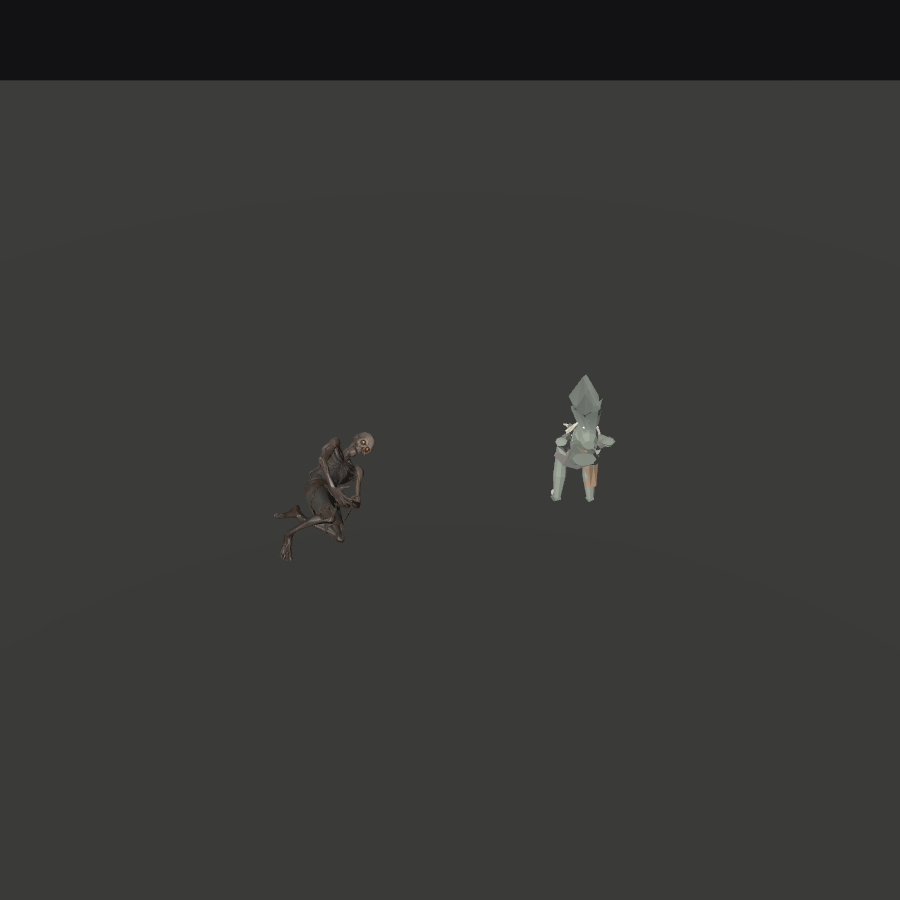
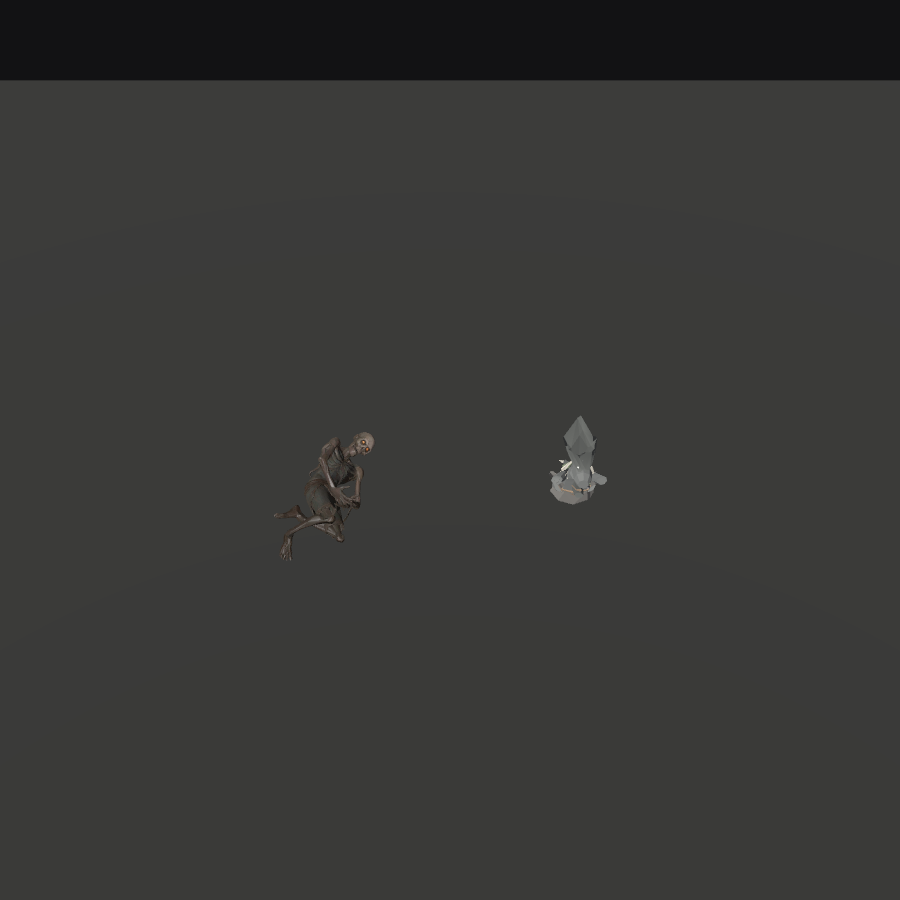
Zombie final pass: hips drop mode for staged bake, grave grey, rags
Add an opt-in hips_first_frame mode to tools/bake_anims.gd that pins
hips X and Z to the clip's first frame and leaves hips Y free. The default
path is unchanged (verified: a live ghoul bake matches the unedited tool
byte for byte). Death now drops the hips through the ground. Zombie:
subtle spine ridge instead of a hump, grave grey skin, hanging rag strips.
Re-baked in hips mode.

Changed region(s): [[0.5911, 0.4044, 0.6844, 0.56]]

diff --git a/tools/art/enemy_rig.py b/tools/art/enemy_rig.py
@@ -301,8 +301,12 @@ def write_clip(arm, name, keys, loop, signs, live=False):
     arm.animation_data_create()
     arm.animation_data.action = act
     state = {b: (0.0, 0.0, 0.0) for b in DEFORM}
+    hips_loc = (0.0, 0.0, 0.0)   # bone-local translation of Hips (Y up, Z forward); used by death to drop
     for frame, upd in keys:
         for bname, vals in upd.items():
+            if bname == "Hips_loc":
+                hips_loc = vals
+                continue
             rx, ry, rz = vals
             state[bname] = (rx * signs.get(bname, 1.0), ry, rz)
         for bname in DEFORM:
@@ -310,6 +314,10 @@ def write_clip(arm, name, keys, loop, signs, live=False):
             pb.rotation_mode = "XYZ"
             pb.rotation_euler = state[bname]
             pb.keyframe_insert("rotation_euler", frame=frame)
+        if "Hips" in DEFORM:
+            hp = arm.pose.bones[live_name("Hips") if live else "Hips"]
+            hp.location = hips_loc
+            hp.keyframe_insert("location", frame=frame)
     act["kn_loop"] = bool(loop)
     arm.animation_data.action = None
     return act
@@ -380,13 +388,13 @@ def make_clips(arm, style, live=False):
     # the body lands on its back instead of folding over.
     clips.append(("death", [
         (1, {}),
-        (21, {"Chest": (-0.15, 0, 0), "Head": (-0.10, 0, 0), "Hips": (-0.08, 0, 0),
+        (21, {"Hips_loc": (0.0, -0.08, -0.02), "Chest": (-0.15, 0, 0), "Head": (-0.10, 0, 0), "Hips": (-0.08, 0, 0),
               "LeftLowerLeg": (-0.35, 0, 0), "RightLowerLeg": (-0.35, 0, 0),
               "LeftUpperArm": (-0.40, 0, 0.20), "RightUpperArm": (-0.40, 0, -0.20)}),
-        (48, {"Chest": (-0.45, 0, 0), "Head": (-0.20, 0, 0), "Hips": (-0.25, 0, 0), "Spine": (-0.15, 0, 0),
+        (48, {"Hips_loc": (0.0, -0.30, -0.08), "Chest": (-0.45, 0, 0), "Head": (-0.20, 0, 0), "Hips": (-0.25, 0, 0), "Spine": (-0.15, 0, 0),
               "LeftLowerLeg": (-0.70, 0, 0), "RightLowerLeg": (-0.70, 0, 0),
               "LeftUpperArm": (-0.90, 0, 0.45), "RightUpperArm": (-0.90, 0, -0.45)}),
-        (85, {"Chest": (-0.55, 0, 0), "Head": (-0.25, 0, 0), "Hips": (-0.35, 0, 0), "Spine": (-0.20, 0, 0),
+        (85, {"Hips_loc": (0.0, -0.62, -0.18), "Chest": (-0.55, 0, 0), "Head": (-0.25, 0, 0), "Hips": (-0.35, 0, 0), "Spine": (-0.20, 0, 0),
                "LeftLowerLeg": (-0.85, 0, 0), "RightLowerLeg": (-0.85, 0, 0),
                "LeftUpperArm": (-1.10, 0, 0.55), "RightUpperArm": (-1.10, 0, -0.55)}),
     ], False))

diff --git a/tools/art/export_enemy.py b/tools/art/export_enemy.py
@@ -42,8 +42,8 @@ PALETTE = {
     "rust": (0.42, 0.21, 0.11),
     "eye_milk": (0.70, 0.70, 0.64),
     "void": (0.04, 0.04, 0.05),
-    "ash": (0.22, 0.25, 0.20),        # grey-green ash skin, darker than the flesh tone
-    "ash_dark": (0.15, 0.17, 0.14),
+    "ash": (0.16, 0.165, 0.155),      # grave grey, only a hint of green
+    "ash_dark": (0.105, 0.11, 0.10),
     "cloth": (0.20, 0.19, 0.17),
     "bone_old": (0.46, 0.43, 0.36),
 }
@@ -137,8 +137,8 @@ def build_zombie(b, J):
     b.tube("Z_Torso", [J["hips"], J["spine"], J["chest"], J["neck"]], [0.15, 0.14, 0.15, 0.09],
            [0.095, 0.085, 0.095, 0.065], mat="ash", sides=8, jitter=0.08, seed=3)
     # back hump (kyphosis): faceted ridge, not a sphere
-    b.tube("Z_Hump", [Vector((0, 0.09, 1.12)), Vector((0, 0.13, 1.27)), Vector((0, 0.11, 1.40))],
-           [0.11, 0.14, 0.09], [0.07, 0.09, 0.06], mat="ash_dark", sides=8, jitter=0.1, seed=7)
+    b.tube("Z_SpineRidge", [Vector((0, 0.07, 1.14)), Vector((0, 0.10, 1.28)), Vector((0, 0.09, 1.40))],
+           [0.045, 0.05, 0.035], [0.035, 0.04, 0.03], mat="ash_dark", sides=6, jitter=0.1, seed=7)
     # rot blotch on the belly, a flat faceted shell
     b.tube("Z_RotPatch", [Vector((0, -0.02, 0.98)), Vector((0.01, -0.06, 1.08))], [0.16, 0.15],
            [0.11, 0.10], mat="rot", sides=8, jitter=0.4, seed=8, cap0=False, cap1=False)
@@ -194,9 +194,10 @@ def build_zombie(b, J):
     # torn rags hanging from the shoulders
     for side, f in (("L", lambda p: p), ("R", er.mir)):
         sh = f(J["sho"])
-        b.tube(f"Z_{side}Rag", [sh + Vector((0, 0, 0.02)), sh + Vector((0.01, -0.03, -0.12)),
-                                sh + Vector((0.02, -0.05, -0.22))], [0.05, 0.045, 0.03], mat="cloth", sides=8,
-               jitter=0.5, seed=50 if side == "L" else 52, cap0=False, cap1=False)
+        b.tube(f"Z_{side}Rag", [sh + Vector((0, 0.01, 0.0)), sh + Vector((0.01, -0.03, -0.20)),
+                                sh + Vector((0.02, -0.05, -0.40)), sh + Vector((0.03, -0.06, -0.52))],
+               [0.028, 0.024, 0.02, 0.012], mat="cloth", sides=5, jitter=0.6, seed=50 if side == "L" else 52,
+               cap0=False, cap1=False)
 
 
 # --------------------------------------------------------------------------- warden
